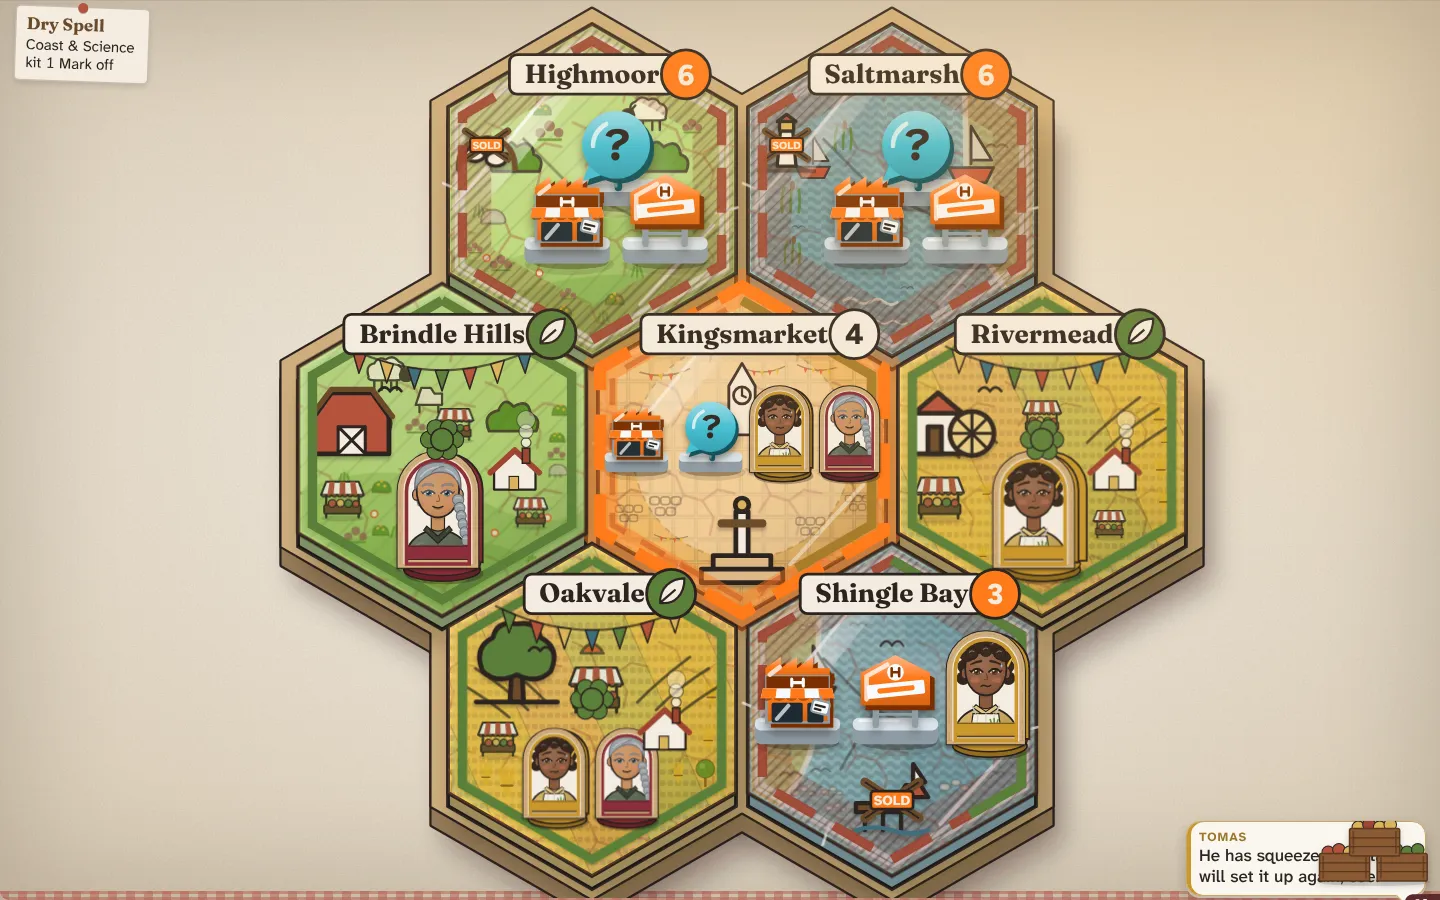
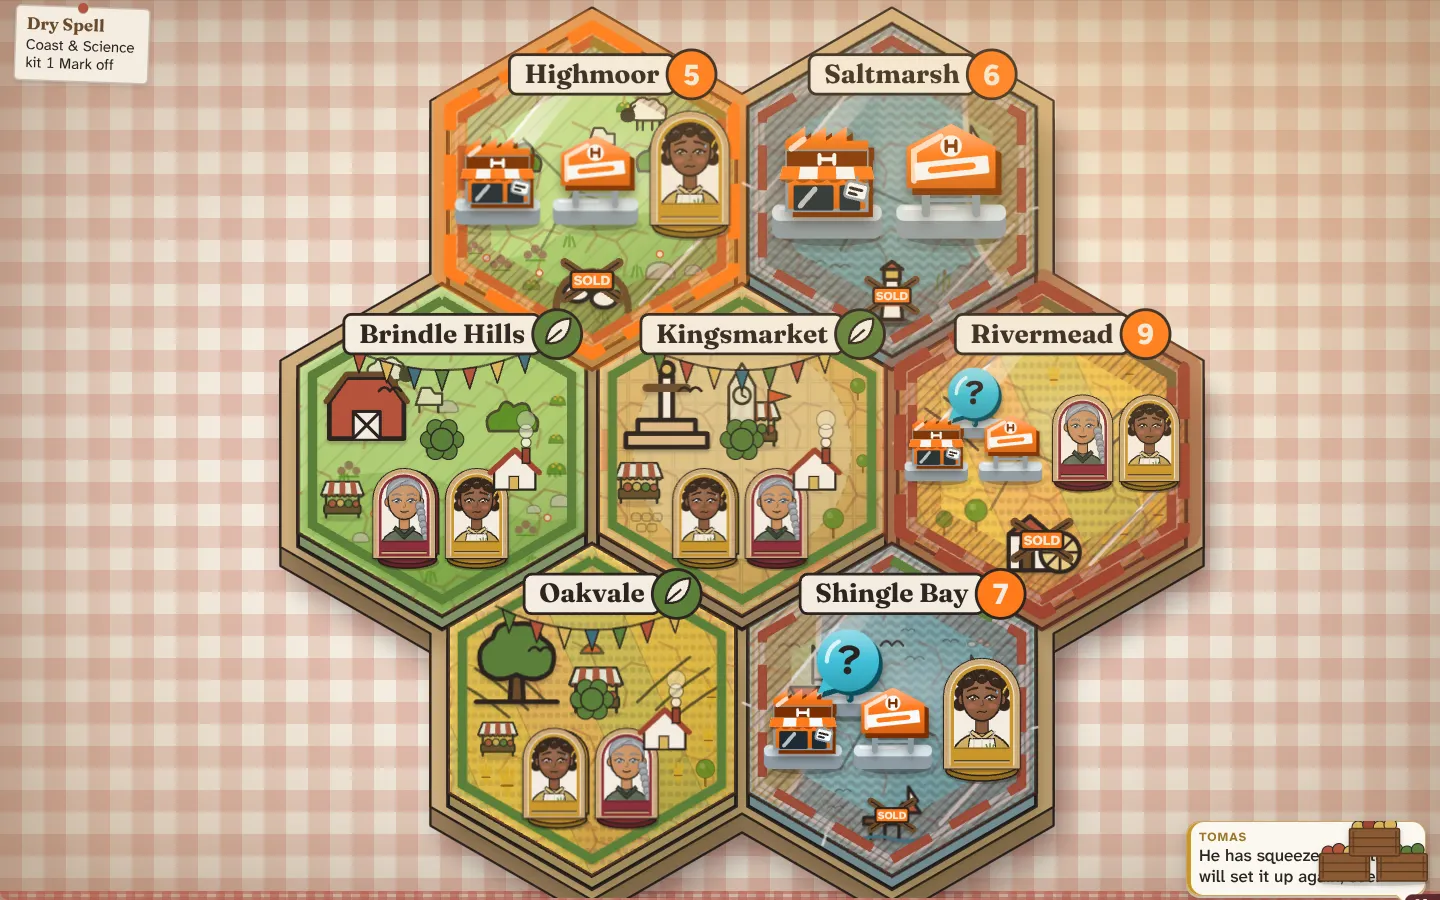
Site: Cathnivore's poster on the market's gingham cloth, no bare cream round the board (plan item 577 done); key art re-shot
Claude-Session: https://claude.ai/code/session_01SimvMN1RHBGCWN7Eo7MzhN

diff --git a/src/styles/keyart.css b/src/styles/keyart.css
@@ -21,3 +21,14 @@
   inset: 0;
   border-radius: 0;
 }
+
+/* Plan item 577: the poster's table is the market's gingham cloth, not bare cream either side of the board (Runnel,
+   NIGHT SHIFT and Hedgerow fill their frames; this one read as a small board on blank paper). The Setup's own cloth
+   (global.css, item 67), a touch stronger, with the light falling off toward the frame's edges. */
+[data-keyart] .map-wrap {
+  background:
+    radial-gradient(ellipse 62% 70% at 50% 50%, transparent 55%, color-mix(in srgb, var(--wood) 30%, transparent)),
+    repeating-linear-gradient(90deg, color-mix(in srgb, var(--clay) 18%, transparent) 0 22px, transparent 22px 44px),
+    repeating-linear-gradient(0deg, color-mix(in srgb, var(--clay) 18%, transparent) 0 22px, transparent 22px 44px),
+    var(--paper);
+}

diff --git a/docs/plan/two-week-plan.md b/docs/plan/two-week-plan.md
@@ -5675,7 +5675,7 @@ Progress (lane B, 2026-11-19 02:50, slices 1-2, `2c24709`, `86ee3f0`): each towe
 - **Accept:** at 390x844 levels 21 and 34 differ in that strip (2,000+ px pixel-diff region); the depot box meets neither the lane nor queued vans; key art re-shot (keyart-fresh).
 - **Size:** 1
 
-## 577. [ ] Site: Cathnivore's poster as full-bleed as the other three *(lane B, in progress)*
+## 577. [x] Site: Cathnivore's poster as full-bleed as the other three *(done 2026-11-20 20:45, lane B: the `?keyart` frame lays the market's gingham cloth (the desktop Setup's, item 67, a touch stronger) under the board with the light falling off to the edges, so no flat cream is left; the board already fills the frame's height (a tighter crop cut the region names). Key art re-shot (`npm run keyart cathnivore`), keyart-fresh, keyart, games-cards and portfolio specs pass P and D. Shots scratchpad s577, ka-cath.png)*
 - **Why:** `portfolio-D` 640-925 x 155-340: a small board on blank cream while Runnel, NIGHT SHIFT and Hedgerow fill their frames; same on `games-D` 112-400 x 540-740 and `games-P` 20-375 x 605-810.
 - **Build:** keep `?keyart` table-only (item 116) but crop to the board plus the gingham cloth, a crate and the bunting edge; `npm run keyart cathnivore`.
 - **Accept:** the board covers 60%+ of each poster crop; no flat cream area over 15% of the poster; keyart-fresh passes; shots of portfolio and /games/ P and D.
